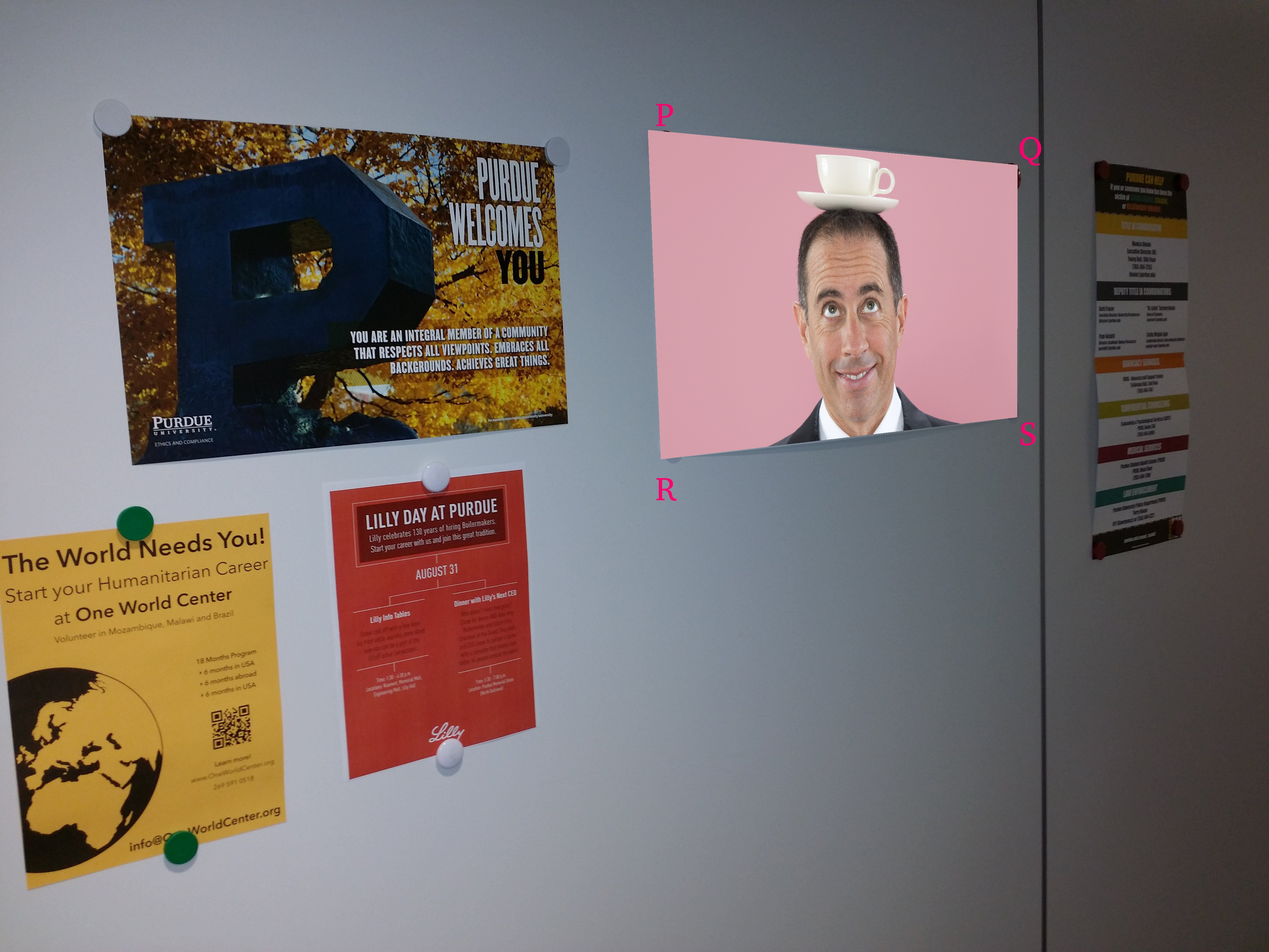
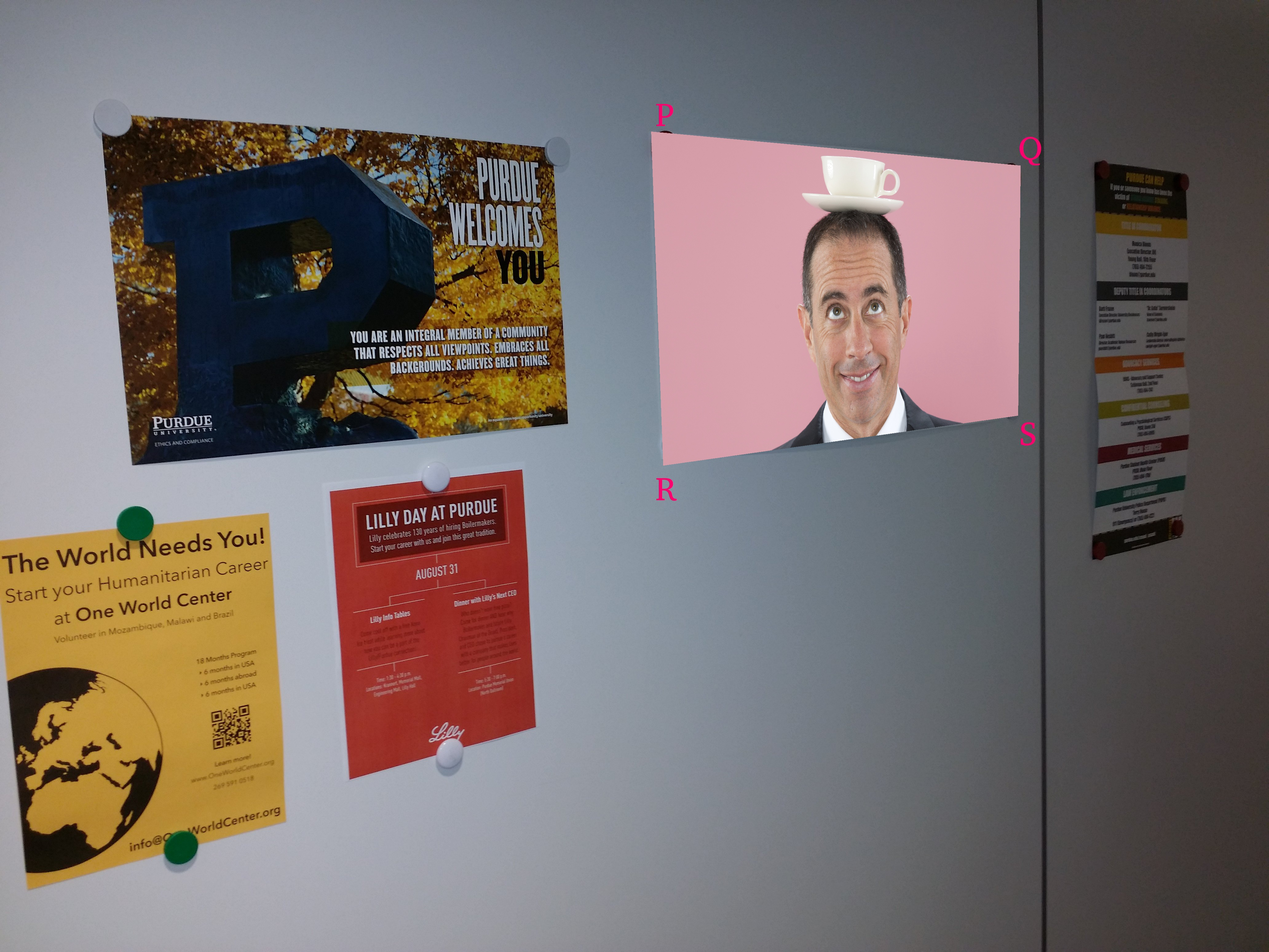
Verified with my own images

Changed region(s): [[0.625, 0.155, 0.7188, 0.4651], [0.5312, 0.4651, 0.625, 0.4961]]

diff --git a/Homework_2/main.py b/Homework_2/main.py
@@ -3,38 +3,37 @@ import numpy as np
 from helpers import *
 
 ## Initialization
-img_path1 = '.\\images\\1.jpg'
-pts1 = np.array([[2108, 423],[3310, 537],[3309, 1357],[2150, 1494]])
+all_img_paths = ['.\\images\\1.jpg', '.\\images\\2.jpg', '.\\images\\3.jpg', '.\\images\\Seinfeld.jpg']
 
-img_path2 = '.\\images\\2.jpg'
-pts2 = np.array([[1585,800],[2975,773],[3000,1520],[1620,1600]])
-
-img_path3 = '.\\images\\3.jpg'
-pts3 = np.array([[990,565], [2425,415], [2400,1480],[1020,1400]])
-
-img_path_ref = '.\\images\\Seinfeld.jpg'
-pts_ref = np.array([[0,0],[2560, 0],[2560, 1536],[0, 1536]])
-
-img_path, pts = img_path3, pts3
-
-## Read images
-img1 = cv2.imread(img_path)
-img2 = cv2.imread(img_path_ref)
+img_path = '.\\images\\n1.jpg'
+img_path_ref = '.\\images\\n2.jpg'
 
 param = {}
-param['img1'] = {'x_max': img1.shape[1], 'y_max': img1.shape[0]}
-param['img2'] = {'x_max': img2.shape[1], 'y_max': img2.shape[0]}
+
+img_info = create_matching_points(img_path)
+pts = img_info['mps']
+param['img1'] = img_info['size_info'].item()
+
+img_ref_info = create_matching_points(img_path_ref)
+pts_ref = img_ref_info['mps']
+param['img2'] = img_ref_info['size_info'].item()
 
 ## Find homography from 2 --> 1
 H, Hinv = find_homography_2d(pts, pts_ref)
 
 ## Transfrom points in image 2 to image 1 and update image 1
-xv, yv = np.meshgrid(range(param['img2']['x_max']), list(range(param['img2']['y_max'])))
+xv, yv = np.meshgrid(range(param['img2']['x_max']), range(param['img2']['y_max']))
 img2_pts = np.array([xv.flatten(), yv.flatten()]).T
 trans_img2_pts = np.dot(H, real_to_homo(img2_pts).T) # Transform using homography
+
 trans_img2_pts = homo_to_real(trans_img2_pts.T).astype(int)
 trans_img2_pts[:,0] = np.clip(trans_img2_pts[:,0], 0, param['img1']['x_max'])
 trans_img2_pts[:,1] = np.clip(trans_img2_pts[:,1], 0, param['img1']['y_max'])
+
+## Read images
+img1 = cv2.imread(img_path)
+img2 = cv2.imread(img_path_ref)
+
 img1[trans_img2_pts[:,1].tolist(), trans_img2_pts[:,0].tolist(), :] = img2[img2_pts[:,1].tolist(), img2_pts[:,0].tolist(), :]
 
 write_filepath = os.path.join(os.path.dirname(img_path), os.path.basename(img_path)[:-4]+'_new.jpg')

diff --git a/Homework_2/sample.py b/Homework_2/sample.py
@@ -1,0 +1,50 @@
+import numpy as np
+import cv2
+import os
+
+def save_mps(event, x, y, flags, param):
+    fac, mps = param
+    if(event == cv2.EVENT_LBUTTONUP):
+        mps.append([int(fac*x), int(fac*y)])
+        print(int(fac*x), int(fac*y))
+
+def create_matching_points(img_path):
+    npz_path = img_path[:-4]+'.npz'
+    flag = os.path.isfile(npz_path)
+    if(not flag):
+        img = cv2.imread(img_path)
+        fac = max(float(int(img.shape[1]/960)), float(int(img.shape[0]/540)))
+        resz_img = cv2.resize(img, None, fx=1/fac, fy=1/fac, interpolation = cv2.INTER_CUBIC)
+        cv2.namedWindow('TempImage')
+        mps = []
+        cv2.setMouseCallback('TempImage', save_mps, param=(fac, mps))
+        cv2.imshow('TempImage', resz_img)
+        cv2.waitKey(0)
+        np.savez(npz_path, mps = np.array(mps), info = {'x_max': img.shape[1], 'y_max': img.shape[0]})
+    return np.load(npz_path)
+
+## Initialization
+img_path1 = '.\\images\\1.jpg'
+pts1 = np.array([[2108, 423],[3310, 537],[3309, 1357],[2150, 1494]])
+
+out = create_matching_points(img_path1)
+mps, img_info = out['mps'], out['info']
+
+# img = cv2.imread(img_path1)
+
+# if(not os.path.isfile(img_path1[:-4]+'.npz')):
+#     print(img.shape)
+#     frame = cv2.resize(img, None, fx=1/fac, fy=1/fac, interpolation = cv2.INTER_CUBIC)
+#     cv2.namedWindow('Image-1')
+#     cv2.setMouseCallback('Image-1', func)
+#     cv2.imshow('Image-1', frame)
+#     cv2.waitKey(0)
+
+# img_path2 = '.\\images\\2.jpg'
+# pts2 = np.array([[1585,800],[2975,773],[3000,1520],[1620,1600]])
+
+# img_path3 = '.\\images\\3.jpg'
+# pts3 = np.array([[990,565], [2425,415], [2400,1480],[1020,1400]])
+
+# img_path_ref = '.\\images\\Seinfeld.jpg'
+# pts_ref = np.array([[0,0],[2560, 0],[2560, 1536],[0, 1536]])

diff --git a/Homework_2/helpers.py b/Homework_2/helpers.py
@@ -1,5 +1,6 @@
 import cv2
 import numpy as np
+import os
 
 def find_homography_2d(pts1, pts2):
     # Assertion
@@ -33,3 +34,23 @@ def homo_to_real(pts):
     pts = pts / pts[-1,:]
     return pts[:-1,:].T
 
+def save_mps(event, x, y, flags, param):
+    fac, mps = param
+    if(event == cv2.EVENT_LBUTTONUP):
+        mps.append([int(fac*x), int(fac*y)])
+        print(int(fac*x), int(fac*y))
+
+def create_matching_points(img_path):
+    npz_path = img_path[:-4]+'.npz'
+    flag = os.path.isfile(npz_path)
+    if(not flag):
+        img = cv2.imread(img_path)
+        fac = max(float(int(img.shape[1]/960)), float(int(img.shape[0]/540)))
+        resz_img = cv2.resize(img, None, fx=1/fac, fy=1/fac, interpolation = cv2.INTER_CUBIC)
+        cv2.namedWindow('TempImage')
+        mps = []
+        cv2.setMouseCallback('TempImage', save_mps, param=(fac, mps))
+        cv2.imshow('TempImage', resz_img)
+        cv2.waitKey(0)
+        np.savez(npz_path, mps = np.array(mps), size_info = {'x_max': img.shape[1], 'y_max': img.shape[0]})
+    return np.load(npz_path)
